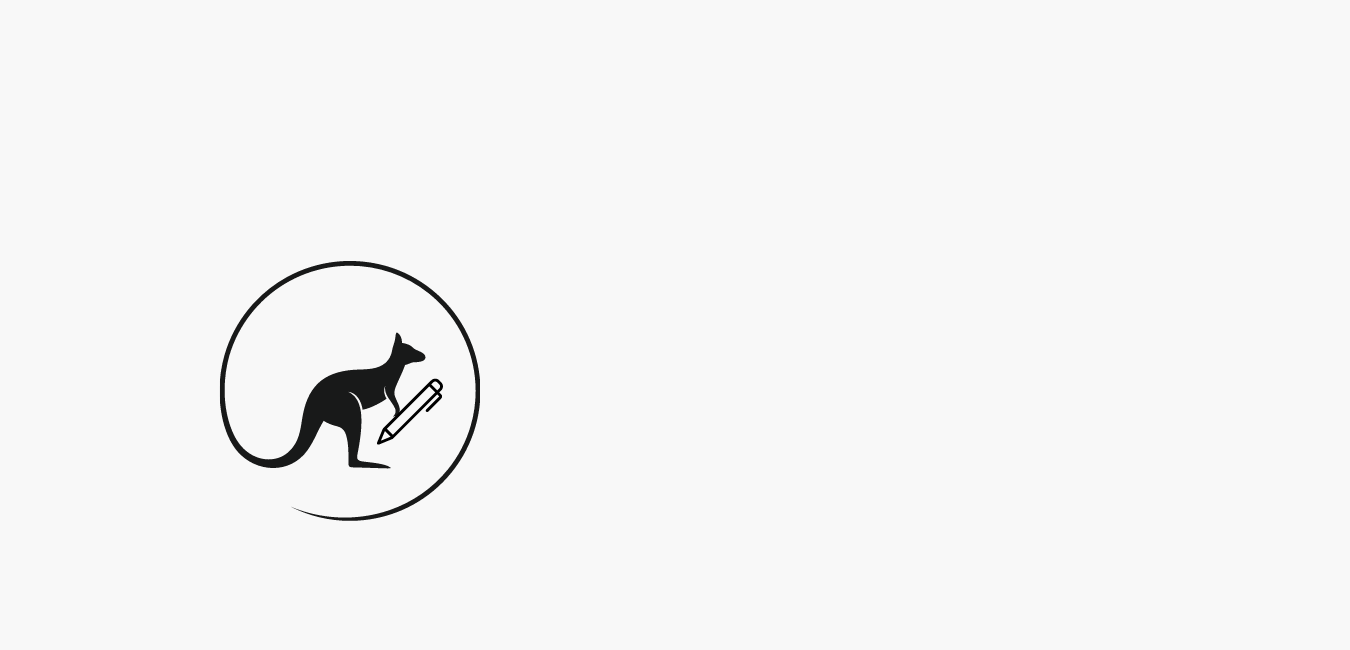
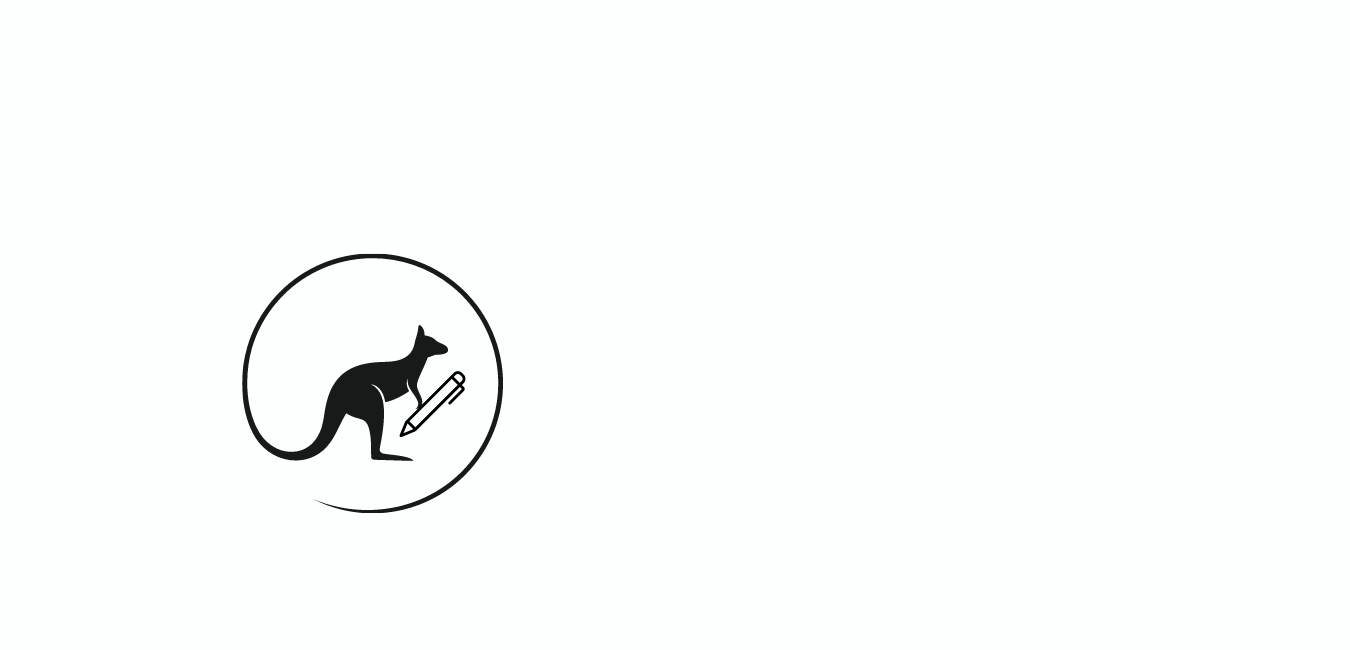
edited the background colour

Changed region(s): [[0.1556, 0.3692, 0.3733, 0.7692], [0.2178, 0.7692, 0.3111, 0.8]]

diff --git a/notes-client/src/LandingPage.css b/notes-client/src/LandingPage.css
@@ -1,5 +1,5 @@
 html {
-  background-color: #F8F8F8;
+  background-color: #FDFEFE;
 }
 
 .columns{
